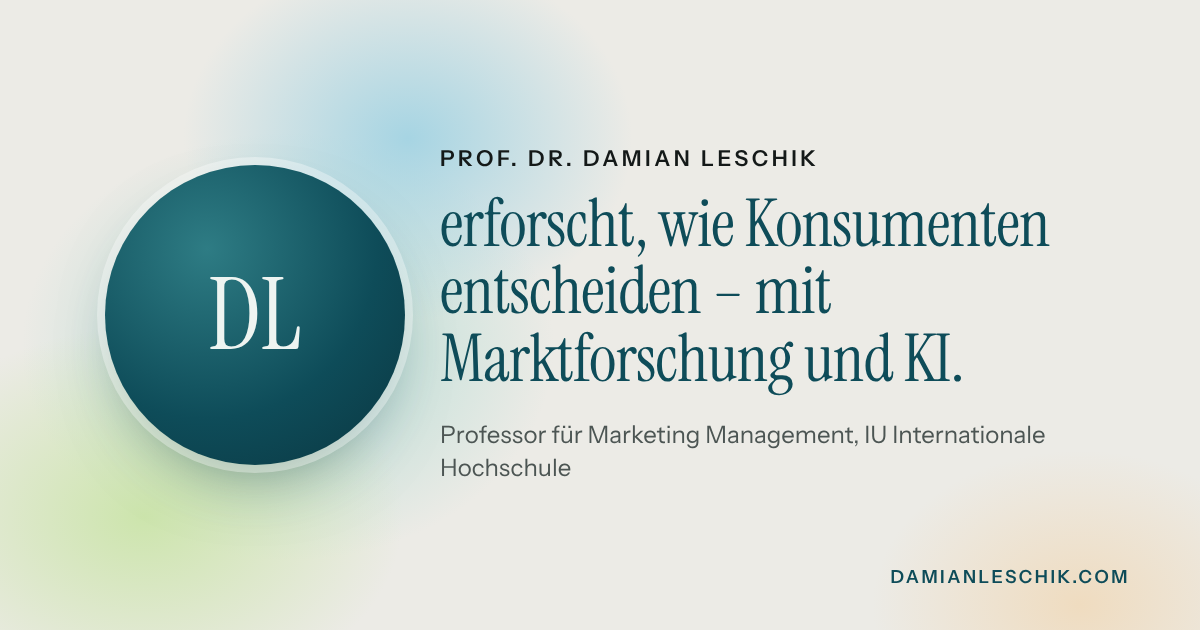
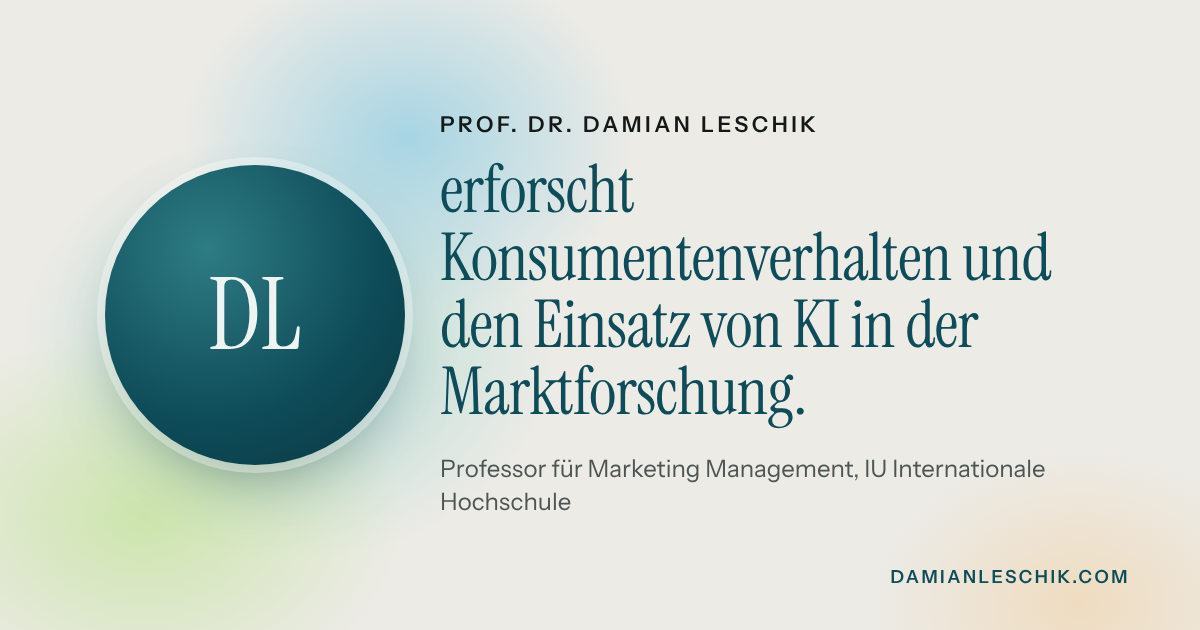
Überschrift nach Damians Wahl (B3): Konsumentenverhalten und KI in der Marktforschung
Großer Satz auf der Startseite DE/EN, Vorschaubilder neu erzeugt.

Claude-Session: https://claude.ai/code/session_01RiCZooBJyG7BzJgMStaVG1

Changed region(s): [[0.37, 0.2413, 0.8942, 0.754], [0.37, 0.181, 0.6783, 0.2111], [0.37, 0.7841, 0.4933, 0.8143]]

diff --git a/content/profil.de.md b/content/profil.de.md
@@ -4,7 +4,7 @@ title: "Damian Leschik – Konsumentenverhalten, Marktforschung & KI"
 # Beschreibung für Google & Co. (ca. 120–160 Zeichen)
 description: "Damian Leschik ist Professor für Marketing Management an der IU Internationalen Hochschule. Er forscht zu KI in der Marktforschung und Silicon Sampling."
 # Großer Satz oben auf der Startseite (beginnt mit deinem Namen)
-claim: "erforscht, wie Konsumenten entscheiden – mit Marktforschung und KI."
+claim: "erforscht Konsumentenverhalten und den Einsatz von KI in der Marktforschung."
 ---
 Damian Leschik ist Professor für Marketing Management an der IU Internationalen Hochschule und lehrt an den Campus Aachen und Köln. Er untersucht, was künstliche Intelligenz für die Marktforschung leisten kann und wo ihre Grenzen liegen. Ein Schwerpunkt ist **Silicon Sampling**: die Frage, ob KI-generierte Befragte echte Menschen in Studien ersetzen oder sinnvoll ergänzen können.
 

diff --git a/content/profil.en.md b/content/profil.en.md
@@ -1,7 +1,7 @@
 ---
 title: "Damian Leschik – Consumer Behaviour, Market Research & AI"
 description: "Damian Leschik is Professor of Marketing Management at IU International University of Applied Sciences, researching AI in market research and silicon sampling."
-claim: "studies how consumers decide – through market research and AI."
+claim: "researches consumer behaviour and the use of AI in market research."
 ---
 Damian Leschik is Professor of Marketing Management at IU International University of Applied Sciences, teaching at the Aachen and Cologne campuses in Germany. His research asks what artificial intelligence can contribute to market research and where its limits lie. A particular focus is **silicon sampling**: whether AI-generated respondents can replace, or usefully complement, real people in surveys and interviews.
 
